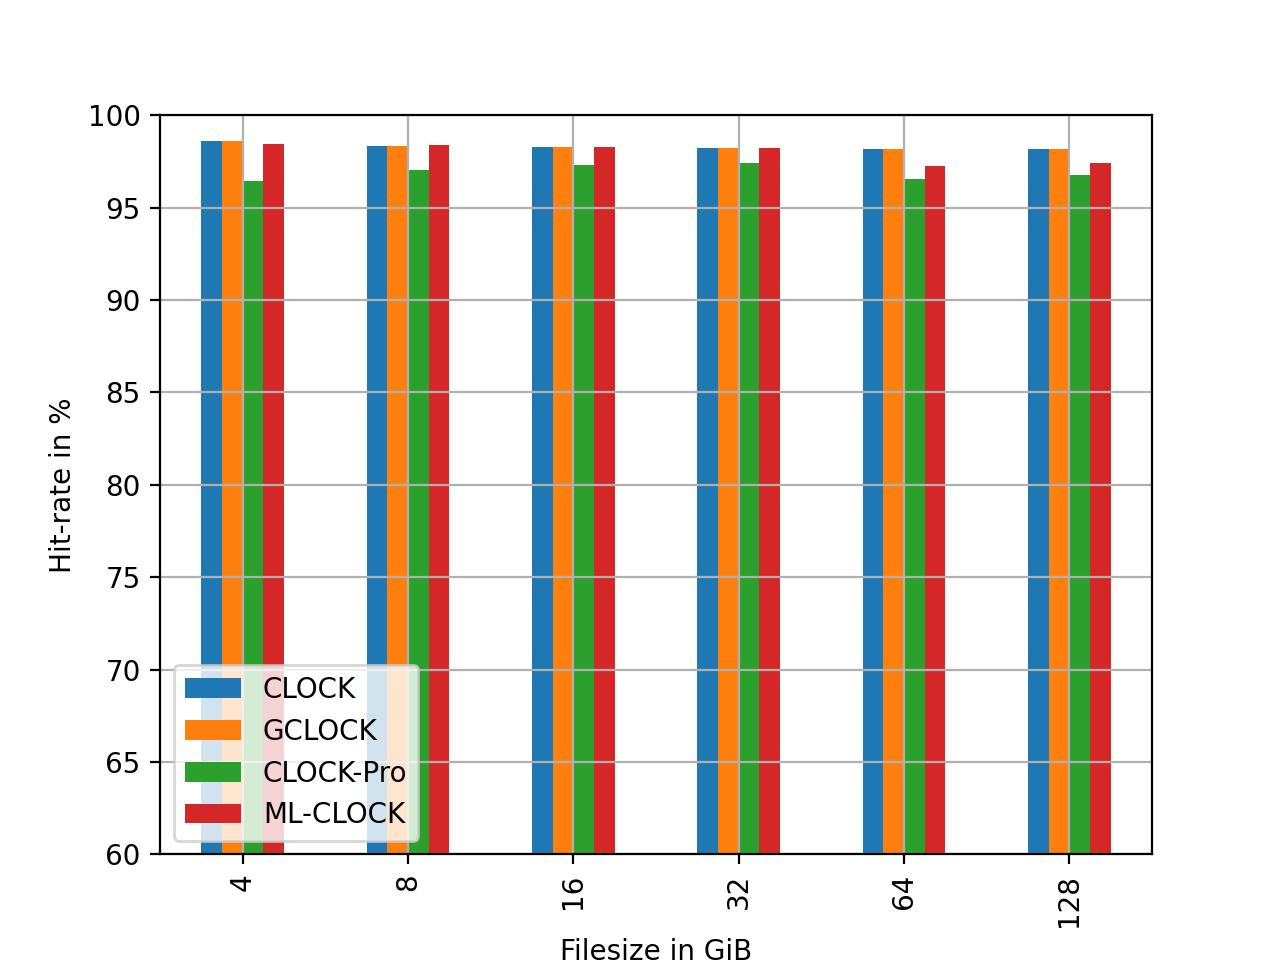
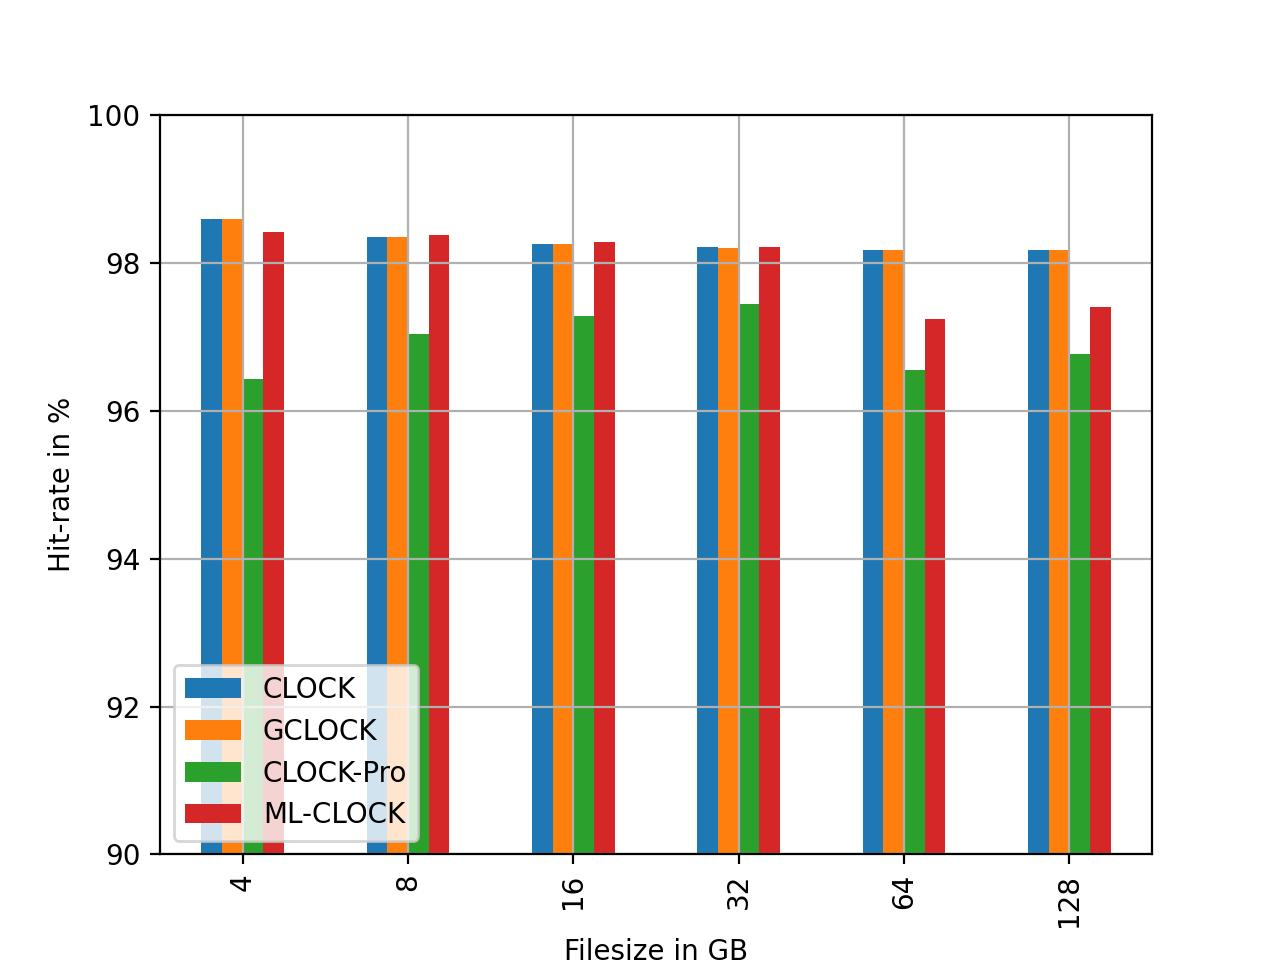
changed y-axis for single threaded plots, worked on evaluation

diff --git a/thesis/thesis.tex b/thesis/thesis.tex
@@ -337,11 +337,34 @@ So the $B^{\varepsilon}$-trees achieves similar asymptotic I/O cost for queries 
 Haura is a research storage stack written primarily in Rust.
 Unlike traditional file systems, Haura runs in user space rather than kernel space.
 Also, Haura uses a key-value and object interface rather than the usual POSIX interface.
-It can be used either directly by an application, in which case Haura runs in the process context of the application, or
-use JULEA as a wrapper for Haura.
+It can be used either directly by an application,
+ in which case Haura runs in the process
+ context of the application, as shown in  
+\cref{fig:directly Haura}, or use JULEA as a wrapper for Haura, as shown in
+ \cref{fig:wrapper Haura}.
 JULEA then runs the Haura instance detached from the user applications, which means that the user application can be terminated or new applications can be created as long as JULEA is running, resulting in more flexibility compared to direct use.
 
-\todo[inline]{insert schemes from Haura docu for better understanding}
+
+\begin{figure}[H]
+	\centering
+	\begin{subfigure}{\textwidth}
+		\includegraphics[scale=0.4]{haura_directly.jpg}
+		\caption{Direct usage of haura.}
+		\label{fig:directly Haura}
+	\end{subfigure}
+	
+	\begin{subfigure}{\textwidth}
+		\includegraphics[scale=0.4]{haura_wrapper.jpg}
+		\caption{Using a wrapper.}
+		\label{fig:wrapper Haura}
+	\end{subfigure}
+	\caption{This figure shows the 2 options to use Haura either directly or 	
+			through a wrapper like JULEA.}
+\end{figure}
+
+
+
+
 \todo[inline]{insert link to Haura docu as source}
 
 The development of Haura started to compare $B^{\varepsilon}$-tree to ZFS and ext4 filesystem \cite{wiedemann2018modern}, where the Haura stack
@@ -732,8 +755,13 @@ This reference, shown in \cref{lst:ObjRef enumeration}, equals to the state of a
 Thus, four states are possible unmodified, modified, in write back or incomplete.
 If an object is unmodified, it can be identified by his \emph{ObjectPointer} and
 when the object is either modified or in write back, objects are given a unique \emph{ModifiedNodeId} for identification.
-The incomplete state, as seen in \cref{lst:ObjRef enumeration}, can only be reached when an object is deserialized from disk.
-If the DMU encounter an incomplete object during runtime, Haura panics and crashes.
+The incomplete state, as seen in \cref{lst:ObjRef enumeration}, is an intermediate state during serialization of an object for writing on disk or deserialization of an object from disk to main memory. 
+
+% talk with Johannes what he means with his annotation
+%The incomplete state, as seen in \cref{lst:ObjRef enumeration}, can only be 
+%reached when an object is deserialized from disk.
+%If the DMU encounter an incomplete object during runtime, Haura panics and 
+%crashes.
 
 \bigskip
 
@@ -793,7 +821,7 @@ The \texttt{remove}()-function for unmodified entries and \texttt{force\_remove}
 
 \bigskip
 
-\begin{lstlisting}[language=Rust,mathescape=true,caption={simplified Cache trait without type aliases, generics, function parameters and function return types},label=lst:simplified Cache trait]
+\begin{lstlisting}[language=Rust,mathescape=true,caption={Simplified Cache trait without type aliases, generics, function parameters and function return types},label=lst:simplified Cache trait]
 trait Cache {
     fn new();
     fn contains_key();
@@ -815,18 +843,23 @@ trait Cache {
 
 The second difference is that it must be possible to change the key for cache entries.
 Because an object in cache can change his state 
-Therefor we have two functions, \cref{lst:simplified Cache trait} line 8 and line 9. 
+Therefore, we have two functions, \cref{lst:simplified Cache trait} line 8 and line 9. 
 Again two functions for unmodified and pinned entries.
 
 Another difference is that the cache must be able to handle cache entries of any size.
 The handling of cache entries of arbitrary size is managed by the DMU.
 Each fetched entry is always inserted into the cache, and then the eviction function is invoked until the cache capacity is again below the specified cache size.
-So the cache size is a soft limit that can be temporarily exceeded, not a hard limit, which would mean that the eviction function is called
-is called before inserting so that the cache size is never exceeded.
+This may cause the cache size to temporarily exceed the specified cache capacity.
 
-Furthermore, we have added the \texttt{get\_mut}()-function, \cref{lst:simplified Cache trait} line 5, 
-since the \texttt{get}()-function does not allow that the state of the cache changes, respectively atomics are used and thus a read-lock is sufficient.
-But for ML-CLOCK it is needed to change the cache and atomic operations cannot be used.
+% changed due to suggestion from Johannes
+%So the cache size is a soft limit that can be temporarily exceeded, not a hard limit, which would mean that the eviction function is called
+%before inserting so that the cache size is never exceeded.
+
+Furthermore, we have added the \texttt{get\_mut}()-function, \cref{lst:simplified 
+Cache trait} line 5, 
+since the \texttt{get}()-function does not allow that the state of the cache 
+changes, respectively atomics are used and thus a read-lock is sufficient.
+However, for ML-CLOCK it is necessary to change the state of the cache, not just updating the metadata for an entry where atomics are sufficent.
 Therefore we implemented \texttt{get\_mut}()-function which uses an exclusive write-lock.
 
 \section{Implemented Cache Replacement Policies}
@@ -841,7 +874,7 @@ do most of the work during the eviction of an entry, which should be infrequent.
 We followed the improvement strategies from the \cref{sec:improved cache replacement policies}
 in selecting the cache replacement policies to implement.
 The CLOCK policy was already implemented and is an approximation of LRU.
-The next policy we consider is GCLOCK, a generalization of CLOCK that uses more history information.
+The next policy we consider is GCLOCK, a generalization of CLOCK that uses more historical information.
 CLOCK-Pro is an example of a cache replacement policy that recognizes access patterns.
 It uses the Inter-Reference recency to distinguish between hot and cold entries and handle these entries differently.
 The last implemented cache replacement policy, ML-CLOCK, is an example for an policy that uses machine learning.
@@ -872,7 +905,7 @@ To find an entry to evict, we look at the entry to which the hand is pointing.
 If the reference bit for this entry is 0, we have found the entry to be evicted.
 If the reference bit is 1, we set the reference bit to 0 and move the hand to the next entry.
 These steps are repeated until an entry is found whose reference bit is set to 0 and which can thus be evicted.
-New insert entries are placed behind the hand which represents the tail of the list, if we see the hand as the head of the list.
+Newly insert entries are placed behind the hand which represents the tail of the list, if we see the hand as the head of the list.
 
 \bigskip
 
@@ -988,14 +1021,14 @@ The CLOCK-Pro cache replacement policy \cite{jiang2005clock} combines the effici
 The basic idea of CLOCK-Pro is the same as LIRS, which is to categorize cache entries into hot and cold entries based on Inter-Reference recency.
 The hot entries always stays in cache and the cold entries allow a quick eviction of rarely accessed entries.
 Also, like LIRS, CLOCK-Pro uses non-resident cold entries to track history information.
-However, CLOCK-Pro, unlike LIRS, is adoptable because it does not require a predefined parameter to control the number of hot and cold entries.
+However, CLOCK-Pro, unlike LIRS, is adoptable as it does not require a predefined parameter to control the number of hot and cold entries.
 
 To achieve better efficiency than LIRS, CLOCK-Pro combines the LRU priority queue and a FIFO queue of LIRS in a circularly linked list.
 And instead of using only one hand, as in CLOCK, three hands are used to provide the functions of LIRS, 
 as shown in \cref{fig:clock in clock-pro}.
-For our implementation, we use a circular double linked list instead of circular single linked list, like in CLOCK.
-Because in some cases me need to move a hand one entry backwards (move to predecessor) to correctly implement the motion of all hands.
-Since the hands should not point to the same entry.
+For our implementation, we use a circular doubly linked list instead of circular singly linked list, like in CLOCK.
+Because in some cases we need to move a hand one entry backwards (move to predecessor) to correctly implement the motion of all hands.
+Since hands should not point to the same entry.
 
 \begin{figure}[ht]
 	\centering
@@ -1005,28 +1038,28 @@ Since the hands should not point to the same entry.
 		\label{fig:clock in clock-pro}
 \end{figure}
 
-For each entry we need to store additional metadata. This includes whether it is a hot or cold entry, is it resident or non-resident in the cache, has it been referenced in the near past, and is the entry in the test phase.
-Each Hot Entry is always resident and not in the testing phase.
+For each entry we need to store additional metadata. This includes whether it is a hot or cold entry, resident or non-resident in the cache, has it been 
+referenced in the near past, and whether or not the entry is in the test phase.
+Each hot Entry is always resident and not in the testing phase.
 Cold entries, on the other hand, may be resident or non-resident and may or may not be in the testing phase.
 Also, all newly inserted entries are resident cold entries in the test phase.
 Both can be referenced or not.
 The test phase is used to give cold entries the chance to turn into hot entries.
-As we will see in a moment.
 
 The $\textbf{Hand}_{hot}$ marks the tail of the list and therefore points to the last hot entry.
-Also, $\textbf{hand}_{hot}$ turns unreferenced hot entries into cold entries  and removes the reference for referenced hot entries when it passes over them.
+Also, $\textbf{Hand}_{hot}$ turns unreferenced hot entries into cold entries  and removes the reference for referenced hot entries when it passes over them.
 
 
 The $\textbf{Hand}_{cold}$ is used to find the entry for eviction. 
 In this respect $\textbf{Hand}_{cold}$ operates like the hand in CLOCK.
-This means that $\textbf{hand}_{cold}$ will traverse all entries until it finds a resident cold entry that is not referenced and thus can be evicted.
+This means that $\textbf{Hand}_{cold}$ will traverse all entries until it finds a resident cold entry that is not referenced and thus can be evicted.
 If the entry to be evicted is in the test phase, it remains in the cache as a non-resident entry, if it is not in the test phase, it is completely evicted from the cache.
 So if there are only hot entries in the cache,  
 we must first convert hot entries to cold entries in order to evict an entry.
-Furthermore, $\textbf{Hand}_{cold}$ turn referenced cold entries in test phase to hot entries. 
-This is because the reference during test phase means that the Inter-Reference recency for this entry is low enough to be a categorized as an hot entry.
+Furthermore, $\textbf{Hand}_{cold}$ turns referenced cold entries in test phase to hot entries. 
+A reference during test phase means that the Inter-Reference recency for this entry is low enough to be a categorized as an hot entry.
 
-And the $\textbf{Hand}_{cold}$ marks the last entry in test phase and ends the test phase for all resident cold entries when it moves over them. 
+$\textbf{Hand}_{test}$ marks the last entry in test phase and ends the test phase for all resident cold entries when it moves over them. 
 It also evicts passed non-resident cold entries from the cache.
 The reason for this is that non-resident cold entries that have not already been converted to hot entries have a high Inter-Reference recency 
 and therefore should not become hot entries.
@@ -1115,13 +1148,13 @@ Furthermore, at most $m$ non-resident cold entries can be stored.
 So that the cache actual size can be at most $2m$ entries.
 To achieve adaptability, the number of hot and cold entries is not fixed.
 The capacity for resident cold entries $m_c$ is increased by one, if an cold entry is accessed during its test phase 
-and $m_c$ is decreased by one, if a cold entry leaves its test phase without being re-accessed.
+and $m_c$ is decreased by one, if a cold entry leaves its test phase without being accessed again.
 As we see in \cref{lst:clock-pro-algorithm} the actual hand movements are triggered by the count of hot and cold entries and the 
 capacity for hot and cold entries.
 This changes the behavior of CLOCK-Pro depending on the underlying workload.
 
 When $m_c$ is large, CLOCK-Pro behaves similarly to LRU. But if $m_c$ is small it behaves like LIRS.
-The small $m_C$ leads to a quicker eviction of newly inserted entries and the entries with low Inter-Reference recency, hot entries, have a higher 
+The small $m_c$ leads to a quicker eviction of newly inserted entries and the entries with low Inter-Reference recency, hot entries, have a higher 
 chance to stay in cache. Thus, in theory, CLOCK-Pro has the advantage of LRU for workloads with strong locality and 
 the advantages of LIRS for workloads with weak locality.
 
@@ -1131,9 +1164,11 @@ Because this would imply that the cache tells the DMU what to do and not the oth
 
 Furthermore, the treatment of a pinned entry during eviction, is more complicated then for CLOCK and GCLOCK.
 We have already seen that for eviction all pointers work together. If the entry intended for eviction remains in the cache, it can happen that a 
-hand gets stuck on this entry, since the entry is pinned it cannot be removed. This can lead to an endless loop. To prevent this, this entry is 
+hand gets stuck on this entry, since the entry is pinned and cannot be removed,
+which causes an endless loop.
+To prevent this, this entry is 
 removed and temporally saved. So that the hands can work as intended.
-If it then occurs that the entry is pinned, the entry is again insert into the cache.
+Afterwards, the pinned entry is inserted back into the cache.
 
 \subsection{ML-CLOCK}
 \label{sub:ml-clock}
@@ -1161,9 +1196,9 @@ ML-CLOCK uses two circular linked lists.
 One for the clean entries which we refer to as clean-clock 
 and a second for the dirty entries which we will refer to as dirty-clock
 which is also sorted by the logical block address for each entry.
-Both circular list have one hand, the c-hand for the clean-clock and 
-the d-hand for the dirty-clock.
-When the d-hand move to the next entry, it moves the next entry 
+Both circular list have one hand, the \textbf{C-hand} for the clean-clock and 
+the \textbf{D-hand} for the dirty-clock.
+When the \textbf{D-hand} move to the next entry, it moves the next entry 
 which has the closest address in the dirty clock.
 This ensures that sequential blocks are written back, if possible.
 Furthermore, we use a ghost queue which saves the metadata of evicted entries and 
@@ -1272,9 +1307,9 @@ Therefore, the entry is moved from the clean-clock to the dirty-clock.
 For this case, we added the \texttt{get\_mut}()-function to the Cache trait.
 % could be insert chapter for cache trait.
 
-To find a entry for eviction during a cache miss, 
+To find an entry for eviction during a cache miss, 
 we search for eviction candidates in both clocks.
-Like the hand in CLOCK, the c-hand and d-hand search for an entry with the reference bit set to 0.
+Like the hand in CLOCK, the \textbf{C-hand} and \textbf{D-hand} search for an entry with the reference bit set to 0.
 So there are two eviction candidates, the c-candidate from the clean-clock and the d-candidate from the dirty-clock.
 The next step is to apply the prediction operation to both candidates and to decide which candidate to evict the preference 
 rules in \cref{tab:ml-clock preference rules} will be used.
@@ -1296,12 +1331,12 @@ Since the goal is to minimize write operations, in 3 out of 4 possible cases the
 		1 & 1 & C-Candidate \\
 		\hline
 	\end{tabular}
-	\caption{Preference rules for victim entry \cite{cho2021ml}}
+	\caption{Preference rules for victim entry \cite{cho2021ml}.}
 	\label{tab:ml-clock preference rules}
 \end{table}
 
 
-When the entry to evict was found,
+When a valid eviction candidate was found,
 it is checked whether this entry is already in the ghost queue.
 If this is the case, a learning operation is triggered.
 Additionally, the entry is evicted from the Ghost queue and added back to the cache.
@@ -1309,14 +1344,21 @@ In our implementation, we do not reinsert the entry into the cache for the same 
 manages which entries are inserted into the cache and not the cache itself.
 
 In case the entry for eviction is not already in the ghost queue, it will be insert into the ghost queue.
-An learning operation is triggered if the ghost queue exceeds it capacity and thus an ghost entry at the front leaves the ghost queue.
+A learning operation is triggered if the ghost queue exceeds it capacity and thus an ghost entry at the front leaves the ghost queue.
 
-So there are three possibilities to trigger a learning operation during a cache hit, 
-if the entry for eviction is already in the ghost queue or
-if a entry must leave the ghost queue.
+So there are three possibilities to trigger a learning operation:
+\begin{enumerate}
+	\setlength\itemsep{-0.8em}
+	\item During a cache hit,	
+	\item An entry for eviction is already in the ghost queue,
+	\item A ghost entry leaves the ghost queue.
+\end{enumerate}
 
-The case that the entry for eviction is pinned can be handled the same way as in CLOCK and GCLOCK, 
-simple leave the pinned entry in the clock and continue the search at the next entry.
+
+The case that the entry for eviction is pinned can be handled the same way as in 
+CLOCK and GCLOCK, 
+by leaving the pinned entry in the clock and continuing the search at the next 
+entry.
 
 
 \section{Summary}
@@ -1348,7 +1390,7 @@ This model is then used to find the entry for the eviction.
 
 The last implemented policy was ML-CLOCK, which uses a single-layer perceptron to learn from the evicted entries and 
 from the cache hits whether an entry should be evicted or not.
-In contrast to more advanced machine learning algorithm, a single-layer perceptron is easy to implement, no additional libraries are required 
+In contrast to more advanced machine learning algorithm, a single-layer perceptron is easy to implement, requires no additional libraries
 and has a low runtime overhead.
 Also, unlike the other cache replacement policies, ML-CLOCK attempts not only to minimize cache misses,
 but also to minimize writes to the underlying storage medium.
@@ -1381,11 +1423,12 @@ And lastly, we look at the results of the evaluation which we divided in singled
 %- storage on CephFS
 %- haura config could be in appendix 
 
-
 For the evaluation the HPC-cluster of the Otto-von-Guericke-University was used.
 The HPC cluster of the Otto-von-Guericke-University was used for the evaluation.
 The \cref{tab:hardware node} shows the hardware of the used node.
-As secondary storage, we used the home folder which is shared between all nodes and uses CephFS.
+As secondary storage, we used CephFS which is shared between all nodes.
+The used Rust compiler was rustc 1.71.1 and
+Fio 3.33 was used generate I/O workloads.
 
 \begin{table}[ht]
 	\centering
@@ -1405,8 +1448,6 @@ As secondary storage, we used the home folder which is shared between all nodes 
 	\caption{Hardware for evaluation}
 	\label{tab:hardware node}
 \end{table}
-
--> next used software
 
 \section{Methodology}
 
@@ -1512,17 +1553,18 @@ As secondary storage, we used the home folder which is shared between all nodes 
 %-------------------------------------------------------
 
 % not sure if I want to use this, don't have seq write for multi-threaded
-\begin{figure}[H]
-	\centering
-	\includegraphics[scale=0.45]{seq_write.jpg}		
-	\caption{This figure show the hit-rate file-size diagram for each implemented 		cache replacement policy for sequential writes}
-	\label{fig:seq write}
-\end{figure}
+%\begin{figure}[H]
+%	\centering
+%	\includegraphics[scale=0.45]{seq_write.jpg}		
+%	\caption{This figure show the hit-rate file-size diagram for each implemented 		cache replacement policy for sequential writes}
+%	\label{fig:seq write}
+%\end{figure}
 
 
 \section{Multi threaded}
 
 - why the split of workloads
+\todo[inline]{update ylimits for plots}
 
 \subsection{Zipf-Distribution Workloads}
 \begin{figure}[H]
